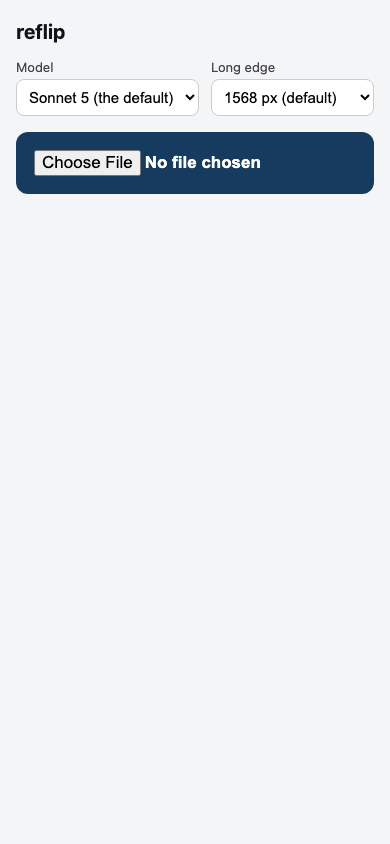
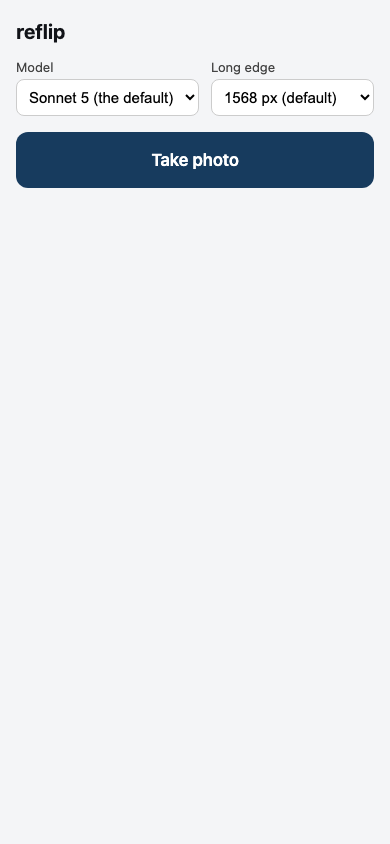
Fix four PR #1 review findings on the phone page and server
The take-photo control now renders as a large styled label wrapping a
visually-hidden file input, instead of the bare native "Choose File /
No file chosen" control. The input keeps accept="image/*" and
capture="environment", stays keyboard- and screen-reader-reachable
(clip-based hiding, not display:none), and Footer's :focus-within
outline shows keyboard focus.

Server.res now validates the ?model= query: an unrecognized id (for
example gpt-4) gets a 400 with a JSON error that lists the three valid
model ids, instead of silently falling back to the default model and
returning 200. A missing model param still defaults, matching the
brief's own curl. ServerTest.res covers the 400 case.

Footer's upload size now shows one decimal place ("0.8 KB" for the
fixture photo) instead of truncating to whole KB via integer division.

CLAUDE.md's "What reflip is" section no longer says part B isn't built
or asks not to build UI, and no longer asks to update app-ideas' stage
row (app-ideas 5bb71c6 already did that). "How it fits together" adds
Shared.res and src/web/*. "How to run" covers dev:web's Vite proxy and
the page's URL after a build. "What is not built yet" drops the stale
part-B line. Rewritten in plain English per Dwight's simple-english
rule.

Screenshots re-shot with dev-browser against FIXTURES=1 npm start at
the same pinned 390x844 viewport, same file names.

Changed region(s): [[0.0308, 0.154, 0.9538, 0.2464]]

diff --git a/public/app.css b/public/app.css
@@ -48,15 +48,35 @@ h1 {
 }
 
 .take-photo {
+  display: block;
   width: 100%;
   padding: 18px;
   font-size: 17px;
   font-weight: 600;
+  text-align: center;
   border-radius: 12px;
   border: none;
   background: #173b5e;
   color: #fff;
   margin-bottom: 12px;
+  cursor: pointer;
+}
+
+.take-photo:focus-within {
+  outline: 2px solid #4a90d9;
+  outline-offset: 2px;
+}
+
+.visually-hidden {
+  position: absolute;
+  width: 1px;
+  height: 1px;
+  padding: 0;
+  margin: -1px;
+  overflow: hidden;
+  clip: rect(0, 0, 0, 0);
+  white-space: nowrap;
+  border: 0;
 }
 
 .status {

diff --git a/CLAUDE.md b/CLAUDE.md
@@ -13,11 +13,11 @@ If the clone fails, keep going with this file. The rules that matter most for th
 
 ## What reflip is
 
-reflip is the M0 spike of Flip Scout. Dwight named it reflip. The spec lives at [`m0n01d/app-ideas`](https://github.com/m0n01d/app-ideas), file `ideas/flip-scout.md`. Stage: building. Update that spec's own stage row to building too, with a link back to this repo.
+reflip is the M0 spike of Flip Scout. Dwight named it reflip. The spec lives at [`m0n01d/app-ideas`](https://github.com/m0n01d/app-ideas), file `ideas/flip-scout.md`. Stage: building.
 
-Flip Scout values items for resale from a photo or a marketplace listing. This spike answers one question: when Claude looks at a photo with vision and web search, what does that one photo cost, in dollars and in seconds?
+Flip Scout values items for resale from a photo or a marketplace listing. This spike answers one question. When Claude looks at a photo with vision and web search, what does one photo cost, in dollars and in seconds?
 
-Part A (this repo, so far) is the brain only: a ReScript 12 server on Node with one scene endpoint, recorded fixtures, and tests. Part B, a bare PWA page that calls this endpoint from a phone, comes in a later session. Do not build UI here yet.
+Part A is the brain. It is a ReScript 12 server on Node with one scene endpoint, recorded fixtures, and tests. Part B is the phone page. It is a ReScript 12 PWA that takes a photo and shows the reply from the brain. Both parts are built and live in this repo.
 
 ## Origin
 
@@ -54,13 +54,15 @@ Checked 2026-09-24 against `platform.claude.com/docs/en/about-claude/pricing` an
 - `src/bindings/`: typed externals for Node (`node:fs`, `node:http`, `node:path`, `node:os`, `node:crypto`, `process.env`) and for the global `fetch`.
 - `src/Json.res`: decode and encode helpers over the built-in `JSON` module. Every decode returns an option, never a cast.
 - `src/Types.res`: the shared domain types and the HTTP reply's JSON encoder.
+- `src/Shared.res`: the model variant, the model ids and labels, and the `sceneReply` decoder. It has no Node imports, so both the server and the page use it. Neither side copies a model id string.
 - `src/Pricing.res`, `src/Stats.res`: the cost formula and the price-percentile math, both pure and both tested.
 - `src/SystemPrompt.res`: our own prompt text and the JSON schema for structured output.
 - `src/ClaudeClient.res`: builds the Claude request, decodes its reply, and retries once without `output_config` on a 400 that names it.
 - `src/EbayClient.res`: the client-credentials token (cached until it expires), the Browse API search, and the stats decode.
 - `src/SceneLog.res`: appends one JSON line per scene to `data/scenes.jsonl`, and writes the raw Claude response to `data/raw/<sceneId>.json`. `data/` is gitignored.
-- `src/Server.res`: the routes: `GET /`, `POST /api/scene`, `POST /api/scene/:id/rtt`.
+- `src/Server.res`: the routes are `GET /`, `POST /api/scene`, and `POST /api/scene/:id/rtt`. `GET` also serves any file under `dist/`. A guard blocks a path that leaves that folder. The rtt route logs `resizeMs` next to `rttMs`.
 - `src/Main.res`: the entry point `npm start` runs.
+- `src/web/`: the phone page. `Index.res` mounts it. `App.res` holds the view and the side effects. `AppState.res` holds the pure model, the `msg` type, and `update`. `Resize.res` scales and encodes the photo on a canvas. `Api.res` calls `/api/scene` and posts the round-trip time. `WebApi.res` holds the typed DOM and canvas bindings.
 
 ## How to run
 
@@ -71,11 +73,15 @@ npm test
 FIXTURES=1 PORT=8787 npm start
 ```
 
+`npm run build` builds the ReScript, then the Vite bundle, into `dist/`. After that, `npm start` serves the page at `http://127.0.0.1:8787/`.
+
 With the server running, in another shell:
 
 ```sh
 curl -s -X POST --data-binary @tests/fixtures/table.jpg -H 'content-type: image/jpeg' http://127.0.0.1:8787/api/scene
 ```
+
+To develop the page with fast reloads, run the brain in one shell and Vite in another. Use `FIXTURES=1 PORT=8787 npm start` for the brain and `npm run dev:web` for Vite. Vite proxies `/api` to the brain on port 8787. Vite does not serve `/api` itself.
 
 `npm start` uses Node's `--env-file-if-exists` flag. If `~/.config/reflip/env` exists, that flag loads it. If not, `npm start` skips it and keeps going. Put each secret on its own `KEY=value` line there. No secret goes in this repo.
 
@@ -113,7 +119,6 @@ If resq cannot be installed, nothing here breaks. Just edit the `.res` files dir
 
 ## What is not built yet
 
-- Part B, the PWA page. Once `dist/index.html` exists, `GET /` serves it. Until then, `GET /` serves a one-line placeholder.
 - A real `~/.config/reflip/env` with live keys. Nobody has set one up yet, so every real run so far used `FIXTURES=1`.
 - `tailscale serve` in front of this server.
 - The haul-summary email and the Chrome extension side of Flip Scout. Those are later spec work, not this spike.
